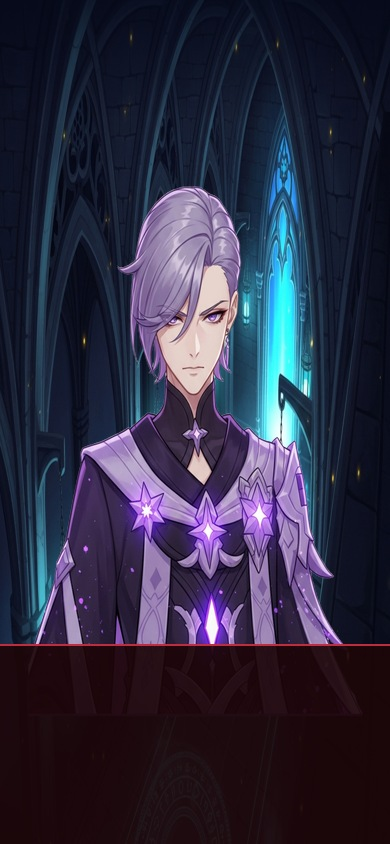
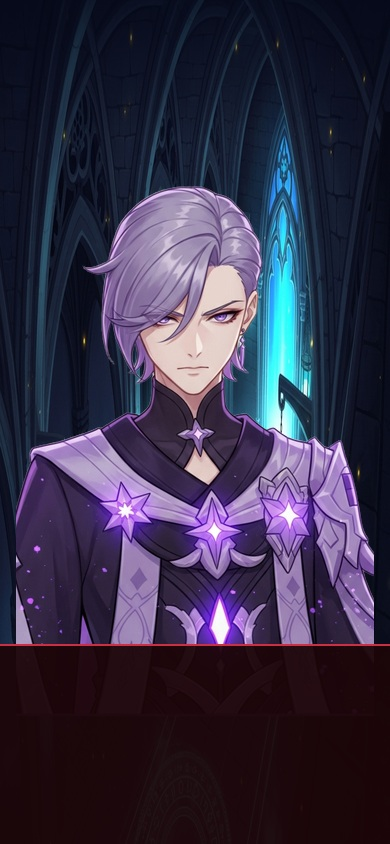
Update prodigy scene assets and prologue component
Replit-Commit-Author: Agent

Changed region(s): [[0.0308, 0.2156, 0.9846, 0.7701]]

diff --git a/frontend/src/components/prologue/FormerSelfIntroScene.tsx b/frontend/src/components/prologue/FormerSelfIntroScene.tsx
@@ -283,7 +283,7 @@ export default function FormerSelfIntroScene({ onComplete }: Props) {
         <ExpoImage
           source={speaker.art}
           style={s.charArt}
-          contentFit="contain"
+          contentFit="cover"
           contentPosition="bottom"
         />
       </Animated.View>
